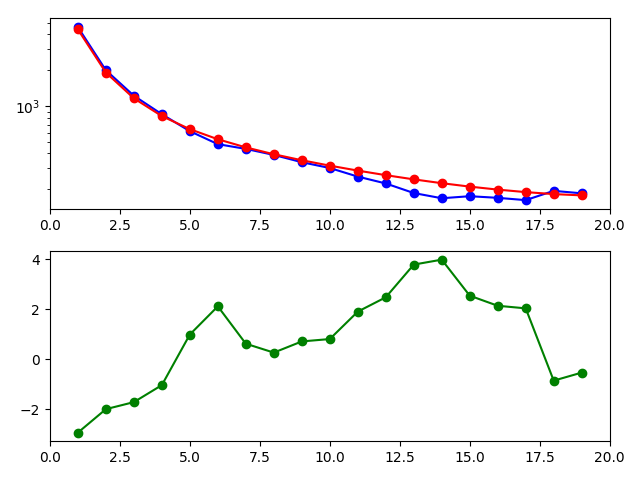
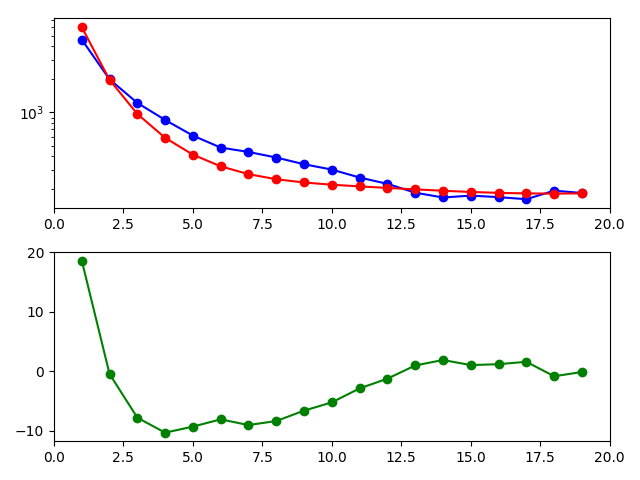
Removed log from 3 populations

diff --git a/three_pop_bayes.py b/three_pop_bayes.py
@@ -8,6 +8,7 @@ from dadi import Numerics, PhiManip, Integration, Spectrum
 
 # Numpy is the numerical library dadi is built upon
 from numpy import array, atleast_2d, log, exp
+from numpy.random import uniform
 from scipy.optimize.slsqp import wrap_function
 
 data = dadi.Spectrum.from_file('YRI.CEU.CHB.fs')
@@ -26,12 +27,15 @@ lower_bound = [1e-3, 1e-3, 1e-3, 1e-3, 1e-3, 1e-3, 0, 0, 0, 0, 0, 0, 0]
 p0 = [2, 0.1, 2, 2, 0.1, 2, 1, 1, 1, 1, 0.2, 0.2, 0.2]
 # Make the extrapolating version of our demographic model function.
 func = OutOfAfrica.OutOfAfrica
-func_ex = dadi.Numerics.make_extrap_log_func(func)
+#func_ex_log = dadi.Numerics.make_extrap_log_func(func)
+func_ex = dadi.Numerics.make_extrap_func(func)
 
 # Perturb our parameters before optimization. This does so by taking each
 # parameter a up to a factor of two up or down.
-p0 = dadi.Misc.perturb_params(p0, fold=1, upper_bound=upper_bound,
-                              lower_bound=lower_bound)
+#p0 = dadi.Misc.perturb_params(p0, fold=1, upper_bound=upper_bound,
+#                              lower_bound=lower_bound)
+
+p0 = [uniform(l, u) for l, u in zip(lower_bound, upper_bound)]
 
 
 print('Beginning optimization ************************************************')
@@ -39,7 +43,7 @@ print('Beginning optimization ************************************************')
 BayesInference = dadi.Inference
 
 
-def optimize_log_bayes(p0, data, model_func, pts, lower_bound=None, upper_bound=None,
+def optimize_bayes(p0, data, model_func, pts, lower_bound=None, upper_bound=None,
                  verbose=0, flush_delay=0.5, epsilon=1e-3,
                  gtol=1e-5, multinom=True, maxiter=None, full_output=False,
                  func_args=[], func_kwargs={}, fixed_params=None, ll_scale=1,
@@ -65,16 +69,17 @@ def optimize_log_bayes(p0, data, model_func, pts, lower_bound=None, upper_bound=
 
     bounds = [{'domain': (l, u)} for l, u in zip(lower_bound, upper_bound)]
 
-    myProblem = GPyOpt.methods.BayesianOptimization(f_wrapped,
-                                                    X=atleast_2d(log(p0)),
+    myProblem = GPyOpt.methods.BayesianOptimization(f_obj_wrapped,
+                                                    X=atleast_2d(p0),
                                                     domain=bounds,
                                                     acquisition_type='EI',
-                                                    verbosity=True)
+                                                    verbosity=True,
+                                                    maximize=False)
 
     myProblem.run_optimization(maxiter)
 
-    xopt = BayesInference._project_params_up(exp(myProblem.x_opt), fixed_params)
-    #xopt = BayesInference._project_params_up(myProblem.x_opt, fixed_params)
+    #xopt = BayesInference._project_params_up(exp(myProblem.x_opt), fixed_params)
+    xopt = BayesInference._project_params_up(myProblem.x_opt, fixed_params)
 
 
     if output_file:
@@ -83,7 +88,7 @@ def optimize_log_bayes(p0, data, model_func, pts, lower_bound=None, upper_bound=
     return xopt
 
 
-BayesInference.optimize_log = optimize_log_bayes
+BayesInference.optimize_log = optimize_bayes
 print('MONKEY PATCHED BAYES START')
 popt = BayesInference.optimize_log(p0, data, func_ex, pts_l,
                                     lower_bound=lower_bound,
